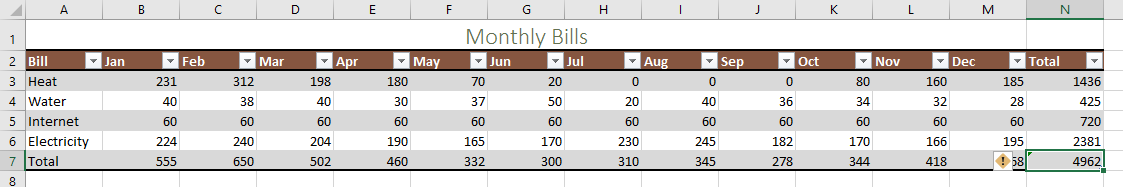
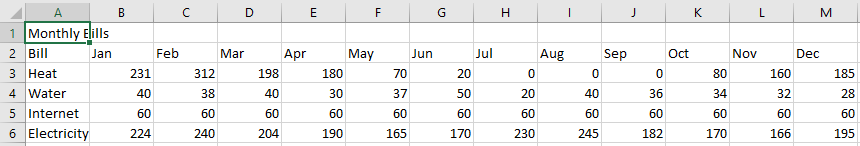
updated charts tut

diff --git a/book/ch4-spreadsheets/tutorial-functions-charts.md b/book/ch4-spreadsheets/tutorial-functions-charts.md
@@ -112,23 +112,37 @@ We're going to take another look at the yearly bills worksheet that we
 saw in a previous tutorial.
 
 1.  Download the [start
-    file](http://erickuha.com/primer/excel_resources/charting_start.xlsx)
-2.  Reacquaint yourself with the data in the table. It has already been
-    formatted for you. Let's add some more data
+    file](https://itech.erickuha.com/book/ch4-spreadsheets/res/charting_start.xlsx)
+
+    ![The Start](images/tutorial_charts/1.png)
+
+2.  The data is very raw. As in [Tutorial 2](https://itech.erickuha.com/book/ch4-spreadsheets/tutorial2-formatting.html), select cells **A1-M1** and click **Merge &amp; Center**. Then add the Title stile to this new cell. It should look like this:
+
+    ![Merge and Centered Title](1-2.png)
+
+3. Next, select any cell that is part of the data table (**E4**, for example), and then, in the **Insert** tab, click **Table**. You'll notice that this time, Excel mistakenly selects cell A1. To fix this, simply click and drag to select only cells **A2:M6**. Ensure that *"My table has headers"* is checked and click **OK**.
+
+    ![make table](1-3.png)
+
+3. Select a table style that you like and your spreadsheet should look like this. If anything is wrong, *undo everything (Ctrl-z) and start over*.
+
+    ![Formatted](1-4.png)
+
 3.  Add a total row and a total column in the way that you wish. Ensure
     that it looks like this:
 
-    ![](images/tutorial_charts/1.png){: width="75%"}
+    ![Total Rows](1-5.png)
+
 
 Now we're going to add some columns for statistics. In particular, the
 **AVERAGE()**, **MAX()**, **MIN()** functions and a "percent of total"
 column. This way we can get some more data to include in our charts.
 
-  Function    Purpose
-  ----------- ------------------------------------------------------------
-  AVERAGE()   Adds all cells together and divides by the number of cells
-  MAX()       Finds the highest number in a range of cells
-  MIN()       Finds the lowest number in a range of cells
+  | Function  | Purpose                                                    |
+  | -         | -                                                          |
+  | AVERAGE() | Adds all cells together and divides by the number of cells |
+  | MAX()     | Finds the highest number in a range of cells               |
+  | MIN()     | Finds the lowest number in a range of cells                |
 
 ### Getting started
 
@@ -141,12 +155,12 @@ column. This way we can get some more data to include in our charts.
     trying to do as a consequence of formatting the data as a table.
     Adjust the number of decimal places shown so it looks nice.
 
-    ![](images/tutorial_charts/2.png){: width="75%"}
+    ![](images/tutorial_charts/2.png)
 
 3.  Follow the same process for Columns **P** and **Q** and the MAX()
     and MIN() functions. The result should look like this:
 
-    ![](images/tutorial_charts/3.png){: width="75%"}
+    ![](images/tutorial_charts/3.png)
 
 4.  In cell **R2**, enter the new heading *Percent of Total*.
 5.  Select cell **R3**. Enter =, click on cell **N3** (the total for the
@@ -154,13 +168,13 @@ column. This way we can get some more data to include in our charts.
     total for all bills), finally press **F4** on the keyboard to
     convert the reference to **N7** into an absolute reference. The
     final formula will end up looking like this (note how Excel
-    automatically re-labels some cell references): =[@Total]/\$N\$7.
+    automatically re-labels some cell references): `=[@Total]/$N$7`.
     When you hit **Enter**, it should fill in the rest of the column
     autmoatically!
 6.  Change the number format of these cells to percentages, resize the
     column, and you should have something that looks like this:
 
-    ![](images/tutorial_charts/4.png){: width="75%"}
+    ![](images/tutorial_charts/4.png)
 
 ### A bar graph
 
@@ -173,7 +187,7 @@ graph.
 2.  In the **Insert** tab, **Charts** group, select the **Column** tool
     and select the first option, **Clustered Column**:
 
-    ![](images/tutorial_charts/5.png){: width="75%"}
+    ![](images/tutorial_charts/5.png)
 
 3.  The first thing you'll notice, is that our chart looks terrible.
     That's because it's being correlated by bill and not by month. Let's
@@ -181,7 +195,7 @@ graph.
     the **Data** group, select the **Switch Row/Column** tool. It will
     look a lot more reasonable.
 
-    ![](images/tutorial_charts/6.png){: width="75%"}
+    ![](images/tutorial_charts/6.png)
 
 4.  Examine your chart. The chart is still a little weird and if you
     look carefully at the legend on the bottom of the chart, you might
@@ -198,7 +212,7 @@ graph.
     *Clustered Column*, and the total is set to *Line*. Last, check the
     *Secondary Axis* box next to the Total line.
 
-    ![](images/tutorial_charts/7.png){: width="75%"}
+    ![](images/tutorial_charts/7.png)
 
 8.  Press **OK**.
 9.  To polish up our Chart a little bit, double click on the Chart Title
@@ -219,23 +233,23 @@ to each other.
     the *Ctrl* key while selecting the range N3:N6. This allows us to
     select both the names and the totals of each bill.
 
-    ![](images/tutorial_charts/8.png){: width="75%"}
+    ![](images/tutorial_charts/8.png)
 
 3.  In the **Insert** tab, select the **Pie Chart** tool and select the
     first 2D pie chart.
 
-    ![](images/tutorial_charts/9.png){: width="75%"}
+    ![](images/tutorial_charts/9.png)
 
 4.  Now, select **Add Chart Element**, **Data Labels**, and select the
     **Data Callout** option. This puts the bill name and percentage on
     each pie slice.
 
-    ![](images/tutorial_charts/10.png){: width="75%"}
+    ![](images/tutorial_charts/10.png)
 
 5.  Again, in **Add Chart Element**, **Legend**, select **None** since
     we don't need it with the data callouts.
 
-    ![](images/tutorial_charts/11.png){: width="75%"}
+    ![](images/tutorial_charts/11.png)
 
 6.  Finally, change the chart title to **Total Bills** and move it to
     its own chart sheet.
@@ -254,6 +268,23 @@ how they work
 3.  Click on the heading in Column **O** and change the heading to
     **Year Trend**. This is what it should all look like.
 
-    ![](images/tutorial_charts/12.png){: width="75%"}
+    ![](images/tutorial_charts/12.png)
 
-//TODO Finish this Section
+#. Select the new blank cells **O3:O7**.
+#. In the **Inert** tab, find the **Sparklines** group and click **Line**.
+
+    ![](images/tutorial_charts/13.png)
+
+#. The *Location Range* should be pre-populated with the range `$O$3:$O$7`. With the insertion point in the the *Data Range* box, simply select the cells `B3:M7` and that reference should appear in the box. Verify that your screen looks like this image before clicking **OK**.
+
+    ![](images/tutorial_charts/14.png)
+
+#. The result looks like this:
+
+    ![](images/tutorial_charts/15.png)
+
+#. To create the *Data Bars*, select cells `N3:N6` and in the **Home** tab, select **Conditional Formatting**. Then simply select **Data Bars** and choose a style you like. This gives you the ability to visualize data *within* a cell as it relates to data in other cells.
+
+    ![](images/tutorial_charts/16.png)
+
+This concludes the tutorial. Submit the file to the course portal as normal.
